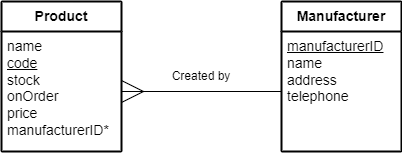
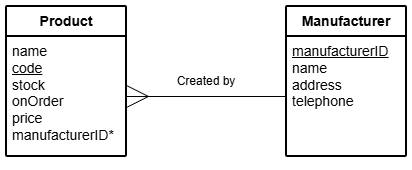
Updated

Changed region(s): [[0.0, 0.0, 1.0, 0.9688], [0.4179, 0.4375, 0.5672, 0.5]]

diff --git a/n5-cs/ddd/N5-DDD-Insert/index2.md b/n5-cs/ddd/N5-DDD-Insert/index2.md
@@ -31,7 +31,7 @@ File: [Clydeview.db](../N5-DDD-Clydeview/assets/Clydeview.db "Download file")
 
 ### Entity Relationship Diagram (ERD)
 
-![ERD](assets/erd2.png)
+![ERD](../N5-DDD-Clydeview/assets/Diagrams/ERD-ManufacturerProduct.png)
 
 
 ## Tasks

diff --git a/n5-cs/ddd/N5-DDD-Update/index2.md b/n5-cs/ddd/N5-DDD-Update/index2.md
@@ -31,7 +31,7 @@ File: [Clydeview.db](../N5-DDD-Clydeview/assets/Clydeview.db "Download file")
 
 ### Entity Relationship Diagram (ERD)
 
-![ERD](assets/erd2.png)
+![ERD](../N5-DDD-Clydeview/assets/Diagrams/ERD-ManufacturerProduct.png)
 
 
 ## Tasks

diff --git a/n5-cs/ddd/N5-DDD-Select/index4.md b/n5-cs/ddd/N5-DDD-Select/index4.md
@@ -12,7 +12,7 @@ The structure of the tables is shown below.
 
 ### Entity Relationship Diagram (ERD)
 
-![ERD](assets/erd4.png)
+![ERD](../N5-DDD-Clydeview/assets/Diagrams/ERD-ManufacturerProduct.png)
 
 
 ## Tasks
